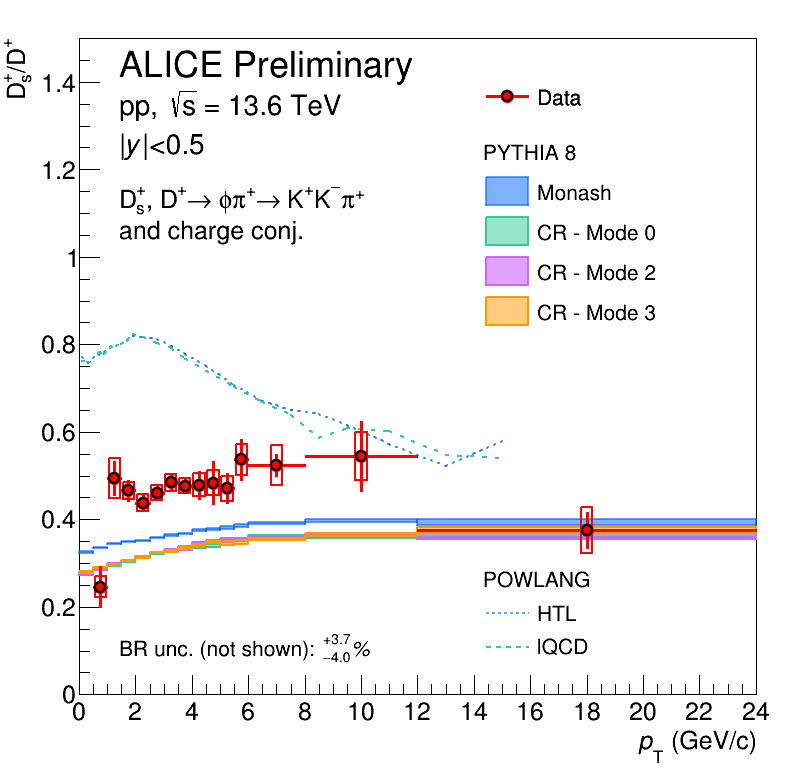
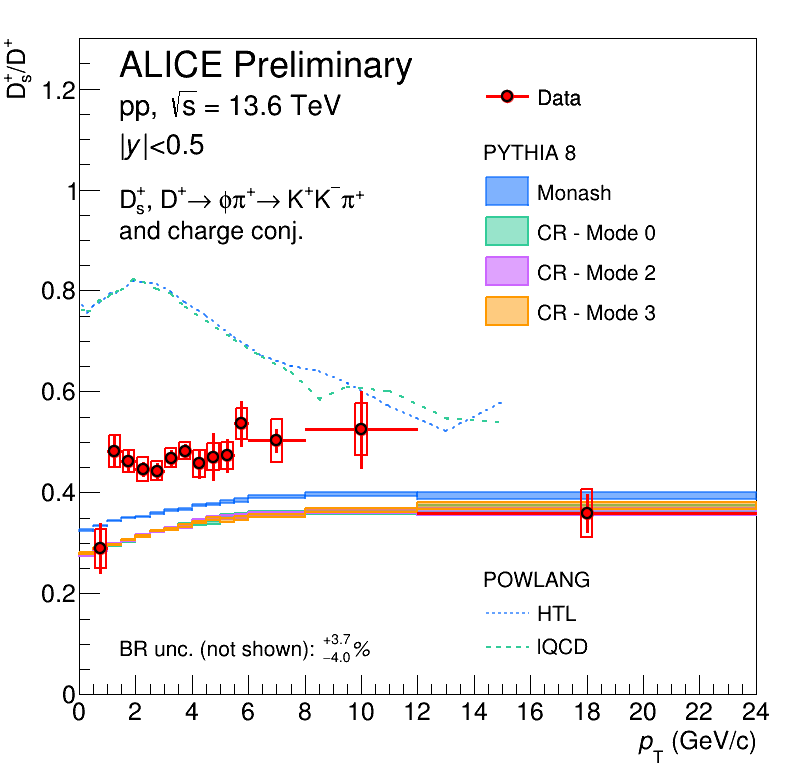
Figures with LHC24d3a larger MC dataset

diff --git a/Figures/Ratio/DrawRatioModels.py b/Figures/Ratio/DrawRatioModels.py
@@ -130,7 +130,7 @@ ROOT.gPad.SetRightMargin(0.05)
 ROOT.gPad.SetTopMargin(0.05)
 ROOT.gPad.SetBottomMargin(0.1)
 
-hFrame = canvas.DrawFrame(0, 0, 24, 1.5, ';#it{p}_{T} (GeV/c);D_{s}^{+}/D^{+}')
+hFrame = canvas.DrawFrame(0, 0, 24, 1.3, ';#it{p}_{T} (GeV/c);D_{s}^{+}/D^{+}')
 hFrame.GetXaxis().SetTitleOffset(1.2)
 hHTL.Draw('L same')
 hLQCD.Draw('L same')
